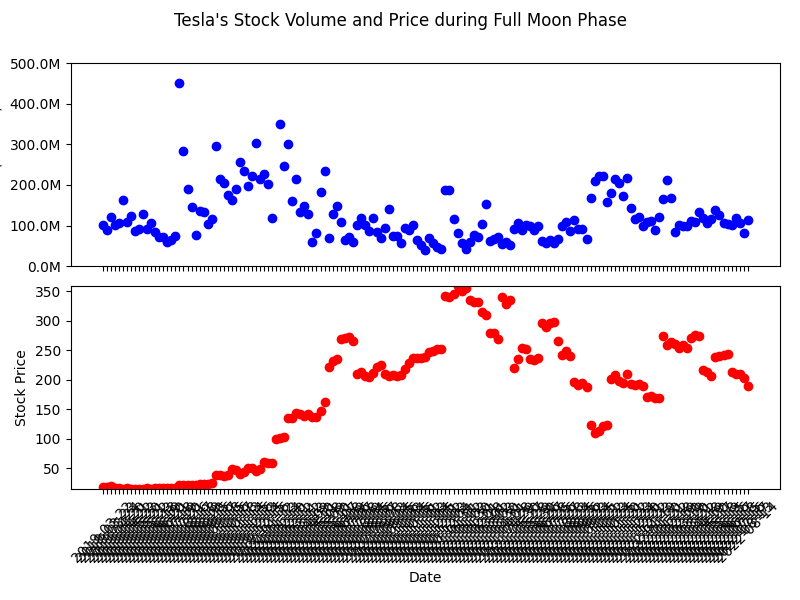
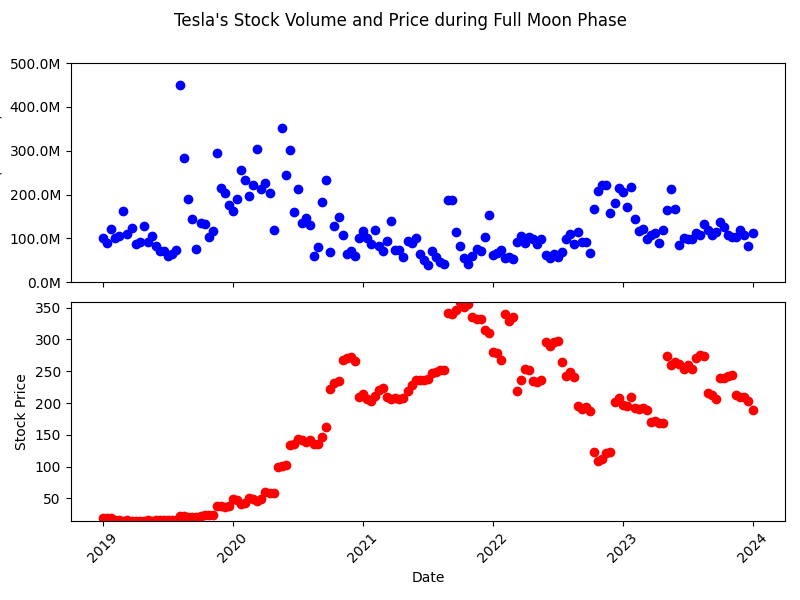
Updated the volume vs price visuals
Updated the volume vs price visuals

diff --git a/analysis_files/Emilio/volume_moon_correlation_visuals.py b/analysis_files/Emilio/volume_moon_correlation_visuals.py
@@ -31,6 +31,13 @@ volume_spy = df_spy['volume']
 volume_nvidia = df_nvidia['volume']
 volume_nasdaq = df_nasdaq['volume']
 
+# Extract the VWAP data from each stock DataFrame
+vwap_apple = df_apple['vwap']
+vwap_tesla = df_tesla['vwap']
+vwap_spy = df_spy['vwap']
+vwap_nvidia = df_nvidia['vwap']
+vwap_nasdaq = df_nasdaq['vwap']
+
 # Extract the moon phases from the moon DataFrame
 moon_phases = df_moon['Moon Phase']
 
@@ -58,6 +65,11 @@ df_combined = pd.DataFrame({
     'Closing Price NASDAQ': closing_price_nasdaq,
     'Moon Phase': moon_phases,
     'Date': date_data,
+    # 'VWAP Apple': vwap_apple,
+    # 'VWAP Tesla': vwap_tesla,
+    # 'VWAP SPY': vwap_spy,
+    # 'VWAP NVIDIA': vwap_nvidia,
+    # 'VWAP NASDAQ': vwap_nasdaq,
 })
 
 # Print the combined DataFrame
@@ -298,6 +310,12 @@ def apple_volume_vs_price_new_moon():
     ax2.set_xlabel('Date')
     ax2.set_ylabel('Stock Price')
     ax2.set_ylim(new_moon_phase['Closing Price Apple'].min(), new_moon_phase['Closing Price Apple'].max())
+    # Set x-axis tick values
+    x_ticks = np.array(new_moon_phase['Date'])
+    x_tick_labels = ['2019', '2020', '2021', '2022', '2023', '2024']
+    x_tick_positions = np.linspace(0, len(x_ticks) - 1, num=6, dtype=int)
+    ax2.set_xticks(x_tick_positions)
+    ax2.set_xticklabels(x_tick_labels)
     plt.suptitle("Apple's Stock Volume and Price during New Moon Phase")
     plt.xticks(rotation=45)
     plt.tight_layout()
@@ -327,6 +345,12 @@ def apple_volume_vs_price_full_moon():
     ax2.set_xlabel('Date')
     ax2.set_ylabel('Stock Price')
     ax2.set_ylim(full_moon_phase['Closing Price Apple'].min(), full_moon_phase['Closing Price Apple'].max())
+    # Set x-axis tick values
+    x_ticks = np.array(full_moon_phase['Date'])
+    x_tick_labels = ['2019', '2020', '2021', '2022', '2023', '2024']
+    x_tick_positions = np.linspace(0, len(x_ticks) - 1, num=6, dtype=int)
+    ax2.set_xticks(x_tick_positions)
+    ax2.set_xticklabels(x_tick_labels)
     plt.suptitle("Apple's Stock Volume and Price during Full Moon Phase")
     plt.xticks(rotation=45)
     plt.tight_layout()
@@ -356,6 +380,12 @@ def nasdaq_volume_vs_price_new_moon():
     ax2.set_xlabel('Date')
     ax2.set_ylabel('Stock Price')
     ax2.set_ylim(new_moon_phase['Closing Price NASDAQ'].min(), new_moon_phase['Closing Price NASDAQ'].max())
+    # Set x-axis tick values
+    x_ticks = np.array(new_moon_phase['Date'])
+    x_tick_labels = ['2019', '2020', '2021', '2022', '2023', '2024']
+    x_tick_positions = np.linspace(0, len(x_ticks) - 1, num=6, dtype=int)
+    ax2.set_xticks(x_tick_positions)
+    ax2.set_xticklabels(x_tick_labels)
     plt.suptitle("NASDAQ's Stock Volume and Price during New Moon Phase")
     plt.xticks(rotation=45)
     plt.tight_layout()
@@ -385,6 +415,12 @@ def nasdaq_volume_vs_price_full_moon():
     ax2.set_xlabel('Date')
     ax2.set_ylabel('Stock Price')
     ax2.set_ylim(full_moon_phase['Closing Price NASDAQ'].min(), full_moon_phase['Closing Price NASDAQ'].max())
+    # Set x-axis tick values
+    x_ticks = np.array(full_moon_phase['Date'])
+    x_tick_labels = ['2019', '2020', '2021', '2022', '2023', '2024']
+    x_tick_positions = np.linspace(0, len(x_ticks) - 1, num=6, dtype=int)
+    ax2.set_xticks(x_tick_positions)
+    ax2.set_xticklabels(x_tick_labels)
     plt.suptitle("NASDAQ's Stock Volume and Price during Full Moon Phase")
     plt.xticks(rotation=45)
     plt.tight_layout()
@@ -414,6 +450,12 @@ def nvidia_volume_vs_price_new_moon():
     ax2.set_xlabel('Date')
     ax2.set_ylabel('Stock Price')
     ax2.set_ylim(new_moon_phase['Closing Price NVIDIA'].min(), new_moon_phase['Closing Price NVIDIA'].max())
+    # Set x-axis tick values
+    x_ticks = np.array(new_moon_phase['Date'])
+    x_tick_labels = ['2019', '2020', '2021', '2022', '2023', '2024']
+    x_tick_positions = np.linspace(0, len(x_ticks) - 1, num=6, dtype=int)
+    ax2.set_xticks(x_tick_positions)
+    ax2.set_xticklabels(x_tick_labels)
     plt.suptitle("NVIDIA's Stock Volume and Price during New Moon Phase")
     plt.xticks(rotation=45)
     plt.tight_layout()
@@ -443,6 +485,12 @@ def nvidia_volume_vs_price_full_moon():
     ax2.set_xlabel('Date')
     ax2.set_ylabel('Stock Price')
     ax2.set_ylim(full_moon_phase['Closing Price NVIDIA'].min(), full_moon_phase['Closing Price NVIDIA'].max())
+    # Set x-axis tick values
+    x_ticks = np.array(full_moon_phase['Date'])
+    x_tick_labels = ['2019', '2020', '2021', '2022', '2023', '2024']
+    x_tick_positions = np.linspace(0, len(x_ticks) - 1, num=6, dtype=int)
+    ax2.set_xticks(x_tick_positions)
+    ax2.set_xticklabels(x_tick_labels)
     plt.suptitle("NVIDIA's Stock Volume and Price during Full Moon Phase")
     plt.xticks(rotation=45)
     plt.tight_layout()
@@ -472,6 +520,12 @@ def spy_volume_vs_price_new_moon():
     ax2.set_xlabel('Date')
     ax2.set_ylabel('Stock Price')
     ax2.set_ylim(new_moon_phase['Closing Price SPY'].min(), new_moon_phase['Closing Price SPY'].max())
+    # Set x-axis tick values
+    x_ticks = np.array(new_moon_phase['Date'])
+    x_tick_labels = ['2019', '2020', '2021', '2022', '2023', '2024']
+    x_tick_positions = np.linspace(0, len(x_ticks) - 1, num=6, dtype=int)
+    ax2.set_xticks(x_tick_positions)
+    ax2.set_xticklabels(x_tick_labels)
     plt.suptitle("SPY's Stock Volume and Price during New Moon Phase")
     plt.xticks(rotation=45)
     plt.tight_layout()
@@ -501,6 +555,12 @@ def spy_volume_vs_price_full_moon():
     ax2.set_xlabel('Date')
     ax2.set_ylabel('Stock Price')
     ax2.set_ylim(full_moon_phase['Closing Price SPY'].min(), full_moon_phase['Closing Price SPY'].max())
+    # Set x-axis tick values
+    x_ticks = np.array(full_moon_phase['Date'])
+    x_tick_labels = ['2019', '2020', '2021', '2022', '2023', '2024']
+    x_tick_positions = np.linspace(0, len(x_ticks) - 1, num=6, dtype=int)
+    ax2.set_xticks(x_tick_positions)
+    ax2.set_xticklabels(x_tick_labels)
     plt.suptitle("SPY's Stock Volume and Price during Full Moon Phase")
     plt.xticks(rotation=45)
     plt.tight_layout()
@@ -530,6 +590,12 @@ def tesla_volume_vs_price_new_moon():
     ax2.set_xlabel('Date')
     ax2.set_ylabel('Stock Price')
     ax2.set_ylim(new_moon_phase['Closing Price Tesla'].min(), new_moon_phase['Closing Price Tesla'].max())
+    # Set x-axis tick values
+    x_ticks = np.array(new_moon_phase['Date'])
+    x_tick_labels = ['2019', '2020', '2021', '2022', '2023', '2024']
+    x_tick_positions = np.linspace(0, len(x_ticks) - 1, num=6, dtype=int)
+    ax2.set_xticks(x_tick_positions)
+    ax2.set_xticklabels(x_tick_labels)
     plt.suptitle("Tesla's Stock Volume and Price during New Moon Phase")
     plt.xticks(rotation=45)
     plt.tight_layout()
@@ -559,6 +625,12 @@ def tesla_volume_vs_price_full_moon():
     ax2.set_xlabel('Date')
     ax2.set_ylabel('Stock Price')
     ax2.set_ylim(full_moon_phase['Closing Price Tesla'].min(), full_moon_phase['Closing Price Tesla'].max())
+    # Set x-axis tick values
+    x_ticks = np.array(full_moon_phase['Date'])
+    x_tick_labels = ['2019', '2020', '2021', '2022', '2023', '2024']
+    x_tick_positions = np.linspace(0, len(x_ticks) - 1, num=6, dtype=int)
+    ax2.set_xticks(x_tick_positions)
+    ax2.set_xticklabels(x_tick_labels)
     plt.suptitle("Tesla's Stock Volume and Price during Full Moon Phase")
     plt.xticks(rotation=45)
     plt.tight_layout()
